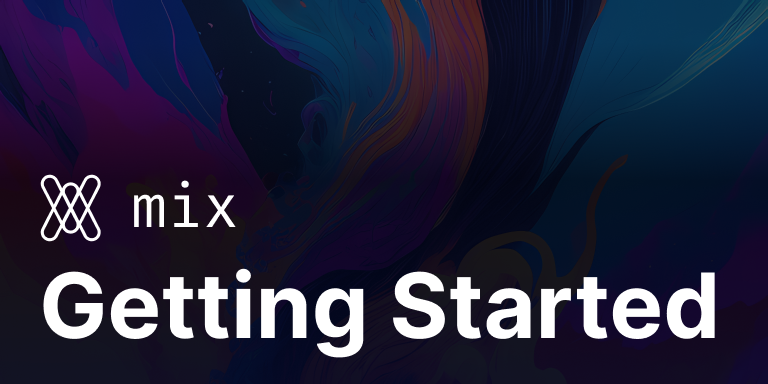
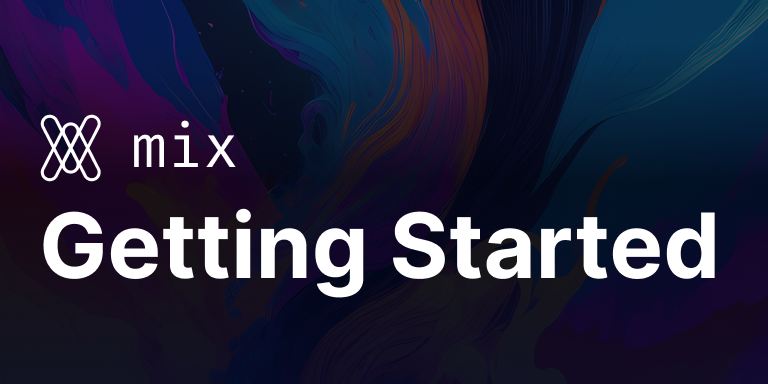
Updated images and PR template

Changed region(s): [[0.0312, 0.2812, 0.9375, 0.9375], [0.1562, 0.3125, 0.3125, 0.4375]]

diff --git a/.github/PULL_REQUEST_TEMPLATE.md b/.github/PULL_REQUEST_TEMPLATE.md
@@ -3,13 +3,15 @@
 ## Describe your changes
 
 ## Type of change
+
 - **Bug fix** (non-breaking change which fixes an issue)
 - **New feature** (non-breaking change which adds functionality)
-- **Chore** (updating grunt tasks etc; no production code change)
+- **Chore** (updating CI, tooling; no production code change)
 - **Docs** (changes to the documentation)
 - **Test** (adding missing tests, refactoring tests; no production code change)
 
 ## Checklist before requesting a review
+
 - [ ] I have performed a self-review of my code
 - [ ] I have made corresponding changes to the documentation
 - [ ] My changes generate no new warnings
